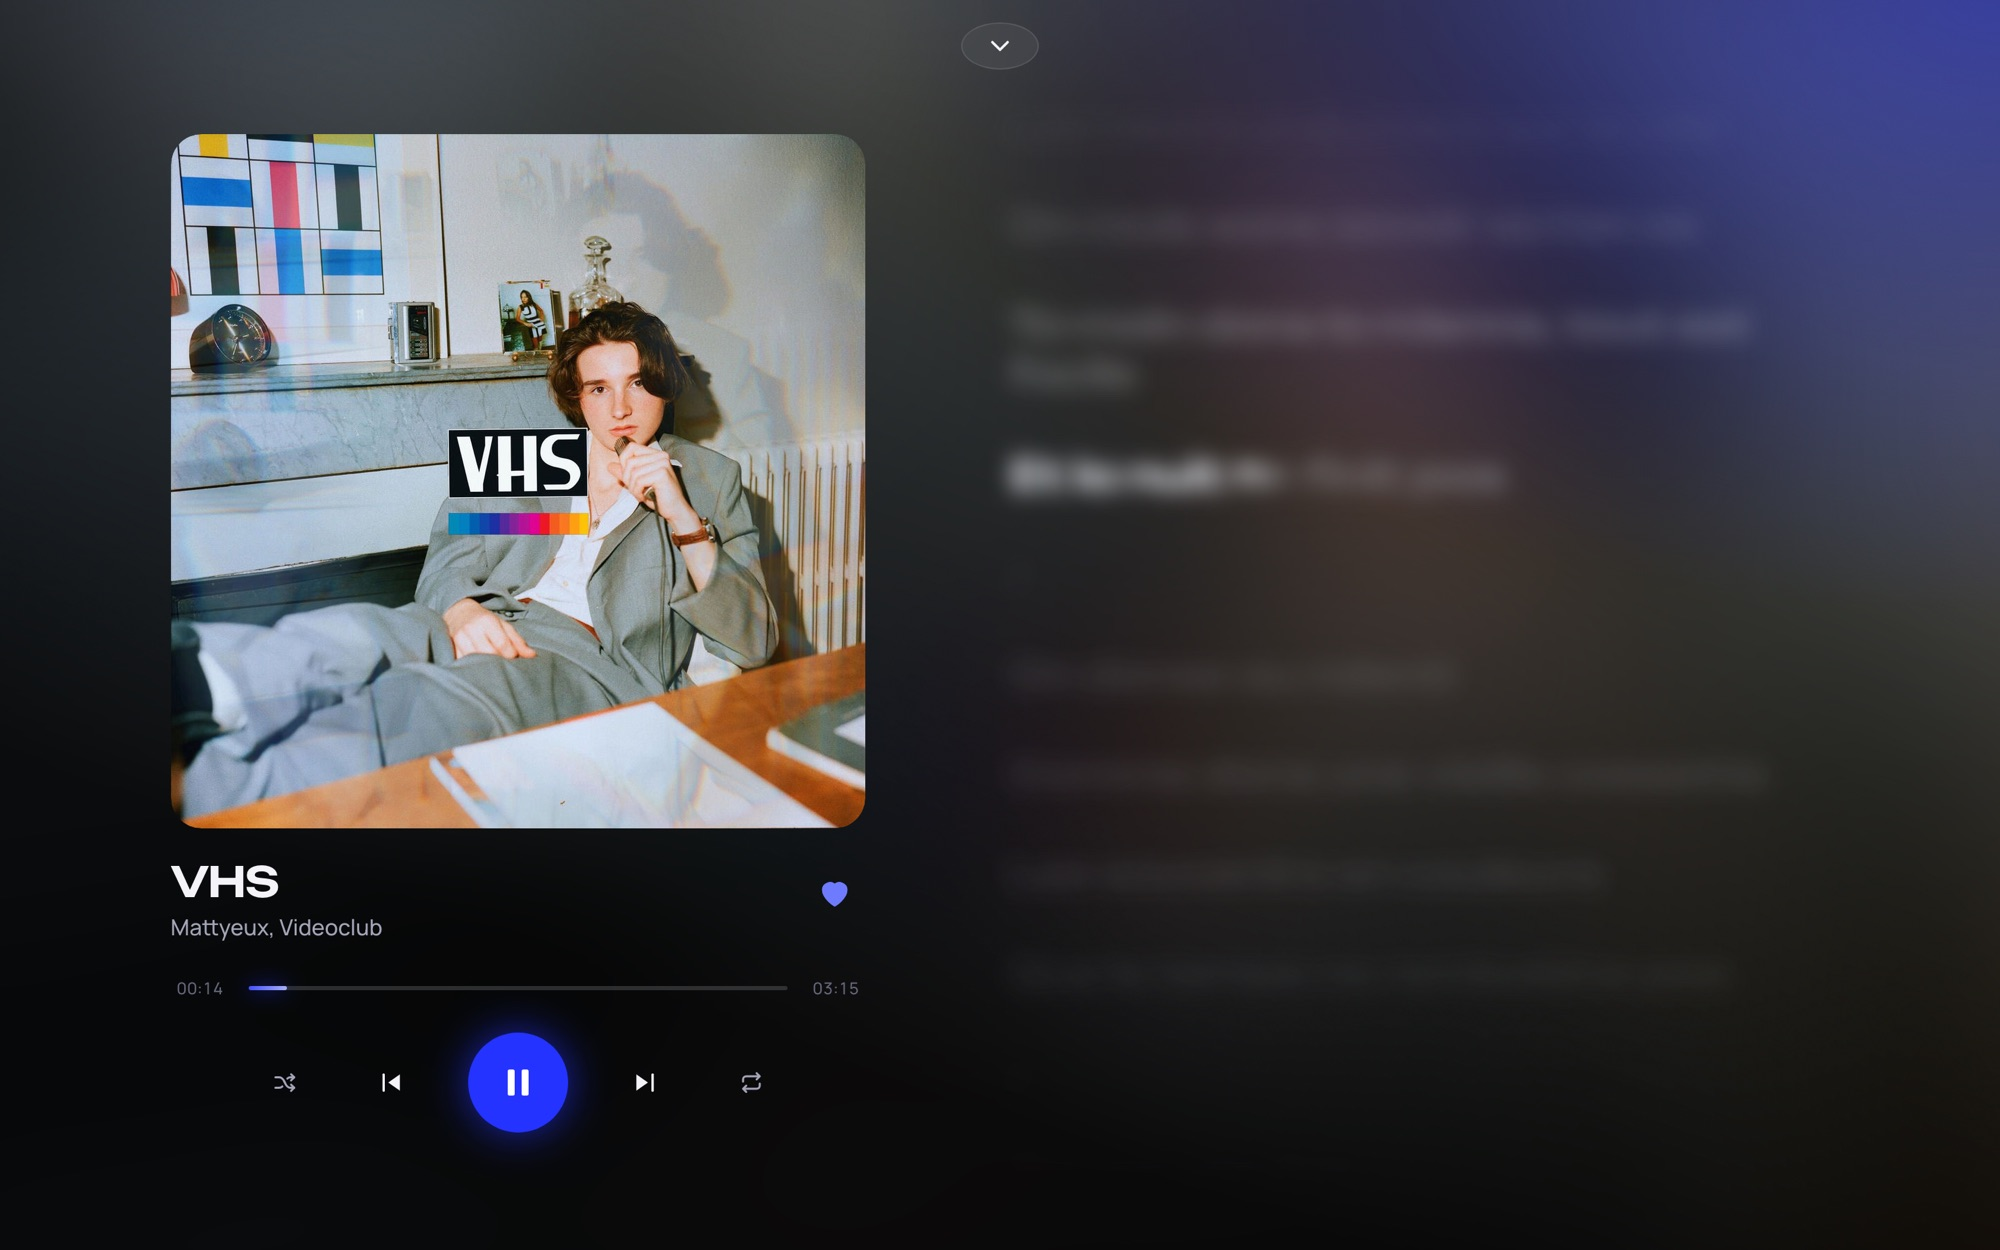
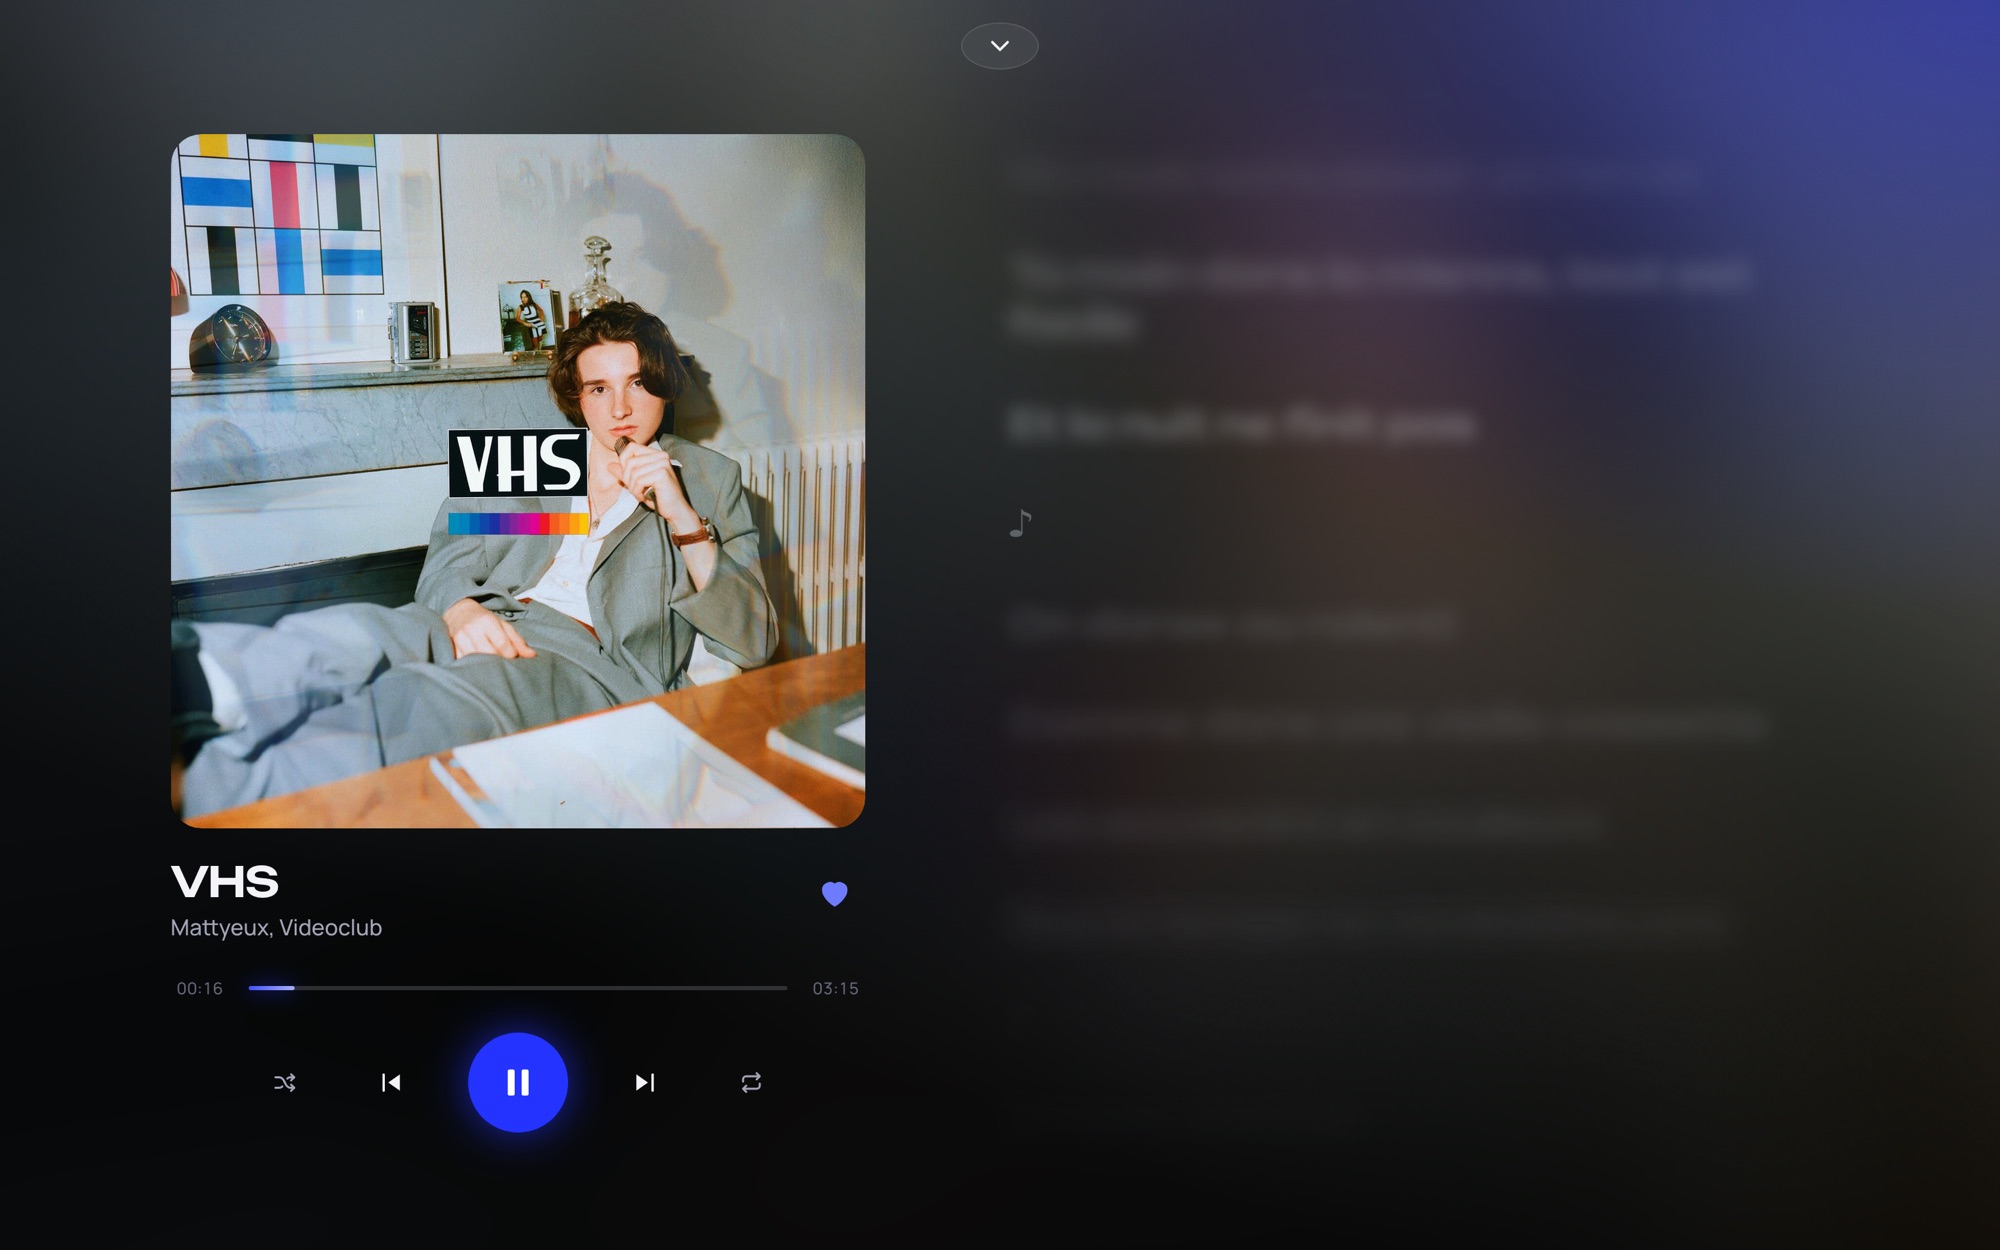
Site : capture des paroles de VHS sur une pause instrumentale

Changed region(s): [[0.496, 0.2808, 0.744, 0.4056], [0.589, 0.2496, 0.62, 0.2808]]

diff --git a/app/src/dev-mock.ts b/app/src/dev-mock.ts
@@ -170,10 +170,12 @@ const handlers: Record<string, (args: any) => unknown> = {
       // karaoke layout shows, never readable lyrics attributed to a real song.
       queue = [vhs, ...tracks.filter((t) => t.id !== vhs.id)];
       playAt(0);
-      startedAt -= demo === "lyrics" ? -6_000 : 62_000;
+      // Lyrics screen: captured during an instrumental break (the active line is ♪, sharp);
+      // the made-up sample lines around it stay unreadable, like distant lines in the app.
+      startedAt -= demo === "lyrics" ? -(20_000 - 16_700) : 62_000;
       if (demo === "lyrics") {
         const style = document.createElement("style");
-        style.textContent = ".lyric { filter: blur(9px) !important; } .lyric.on { filter: blur(8px) !important; }";
+        style.textContent = ".lyric:not(.on) { filter: blur(calc(5px + var(--d, 1) * 1.5px)) !important; }";
         document.head.append(style);
       }
       {
